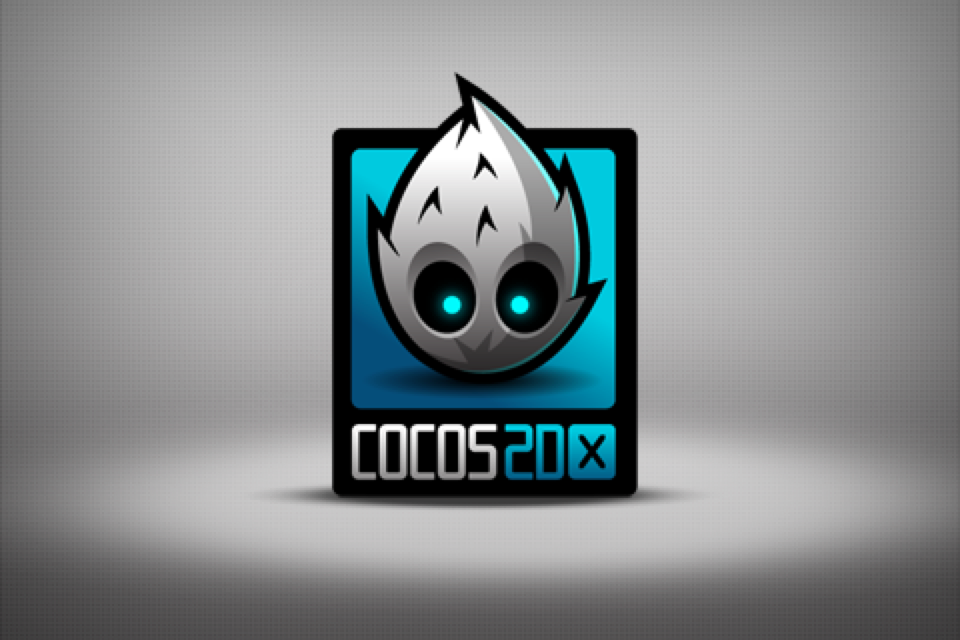
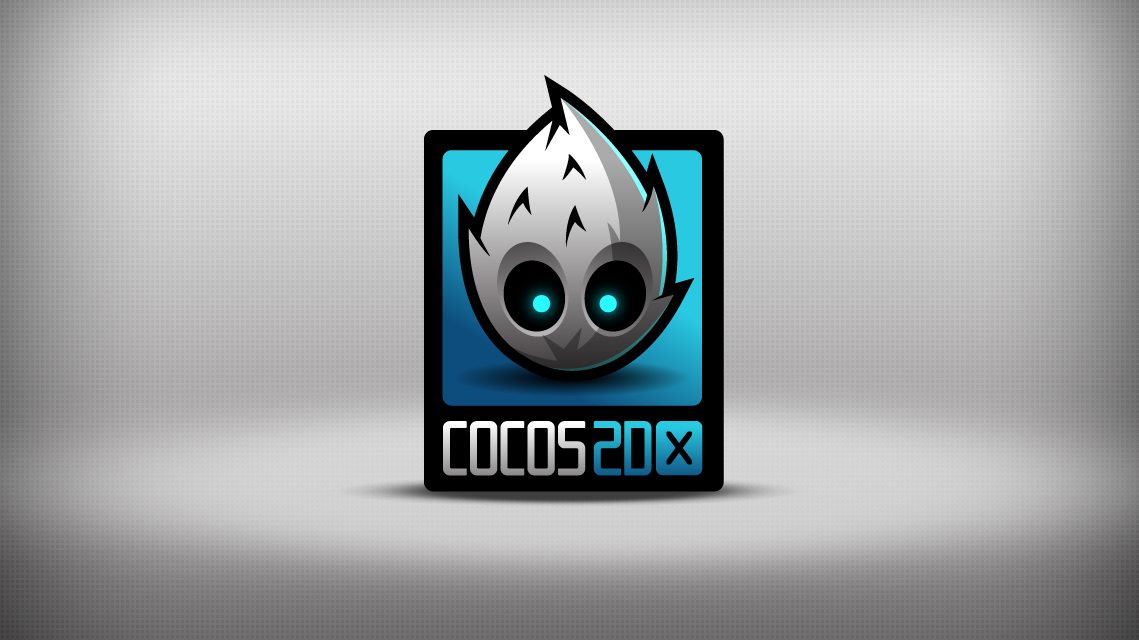
revert back SimpleGame to enableRetinaDisplay approach. Update background image of HelloCpp to 640x1136.

diff --git a/samples/SimpleGame/Classes/HelloWorldScene.cpp b/samples/SimpleGame/Classes/HelloWorldScene.cpp
@@ -4,8 +4,6 @@
 
 using namespace cocos2d;
 
-extern float g_scaleRatio;
-
 HelloWorld::~HelloWorld()
 {
 	if (_targets)
@@ -28,18 +26,7 @@ HelloWorld::HelloWorld()
 :_targets(NULL)
 ,_projectiles(NULL)
 ,_projectilesDestroyed(0)
-,_scaleRatio(1.0)
 {
-    if ( 0 == strcmp(CCFileUtils::sharedFileUtils()->getResourceDirectory(), "hd/") )
-    {
-        // AppDelegate.cpp used hd resource & 960x640 design resolution
-        _scaleRatio = 2.0;
-    }
-    else
-    {
-        // sd
-        _scaleRatio = 1.0;
-    }
 }
 
 CCScene* HelloWorld::scene()
@@ -106,7 +93,7 @@ bool HelloWorld::init()
 
 		/////////////////////////////
 		// 2. add your codes below...
-		CCSprite *player = CCSprite::create("Player.png", CCRectMake(0, 0, 27*_scaleRatio, 40*_scaleRatio) );
+		CCSprite *player = CCSprite::create("Player.png", CCRectMake(0, 0, 27, 40) );
         
 		player->setPosition( ccp(origin.x + player->getContentSize().width/2,
                                  origin.y + visibleSize.height/2) );
@@ -140,7 +127,7 @@ void HelloWorld::menuCloseCallback(CCObject* pSender)
 // cpp with cocos2d-x
 void HelloWorld::addTarget()
 {
-	CCSprite *target = CCSprite::create("Target.png", CCRectMake(0,0,27*_scaleRatio,40*_scaleRatio) );
+	CCSprite *target = CCSprite::create("Target.png", CCRectMake(0,0,27,40) );
     
 	// Determine where to spawn the target along the Y axis
 	CCSize winSize = CCDirector::sharedDirector()->getVisibleSize();
@@ -212,7 +199,7 @@ void HelloWorld::ccTouchesEnded(CCSet* touches, CCEvent* event)
 
 	// Set up initial location of projectile
 	CCSize winSize = CCDirector::sharedDirector()->getVisibleSize();
-	CCSprite *projectile = CCSprite::create("Projectile.png", CCRectMake(0, 0, 20*_scaleRatio, 20*_scaleRatio));
+	CCSprite *projectile = CCSprite::create("Projectile.png", CCRectMake(0, 0, 20, 20));
 	projectile->setPosition( ccp(20, winSize.height/2) );
 
 	// Determinie offset of location to projectile

diff --git a/samples/SimpleGame/Classes/AppDelegate.cpp b/samples/SimpleGame/Classes/AppDelegate.cpp
@@ -31,17 +31,15 @@ bool AppDelegate::applicationDidFinishLaunching() {
     }
     else if (target == kTargetIphone)
     {        
-        if (CCEGLView::sharedOpenGLView()->enableRetina())
+        if (CCDirector::sharedDirector()->enableRetinaDisplay(true))
         {
-            // well, it's a iPhone 4 and above, with 960x480 Retina resolution
+            // well, it's a iPhone 4, iPhone 4S or iPhone 5
             CCFileUtils::sharedFileUtils()->setResourceDirectory("hd");
-            CCEGLView::sharedOpenGLView()->setDesignResolutionSize(960, 640, kResolutionNoBorder);
         }
         else
         {
             // iPhone 3GS and before, with 480x320 resolution
             CCFileUtils::sharedFileUtils()->setResourceDirectory("sd");
-            CCEGLView::sharedOpenGLView()->setDesignResolutionSize(480, 320, kResolutionNoBorder);
         }
     }
     else 

diff --git a/samples/SimpleGame/Classes/HelloWorldScene.h b/samples/SimpleGame/Classes/HelloWorldScene.h
@@ -38,7 +38,6 @@ protected:
 	cocos2d::CCArray *_targets;
 	cocos2d::CCArray *_projectiles;
 	int _projectilesDestroyed;
-    float _scaleRatio;
 
 	void addTarget();
 
